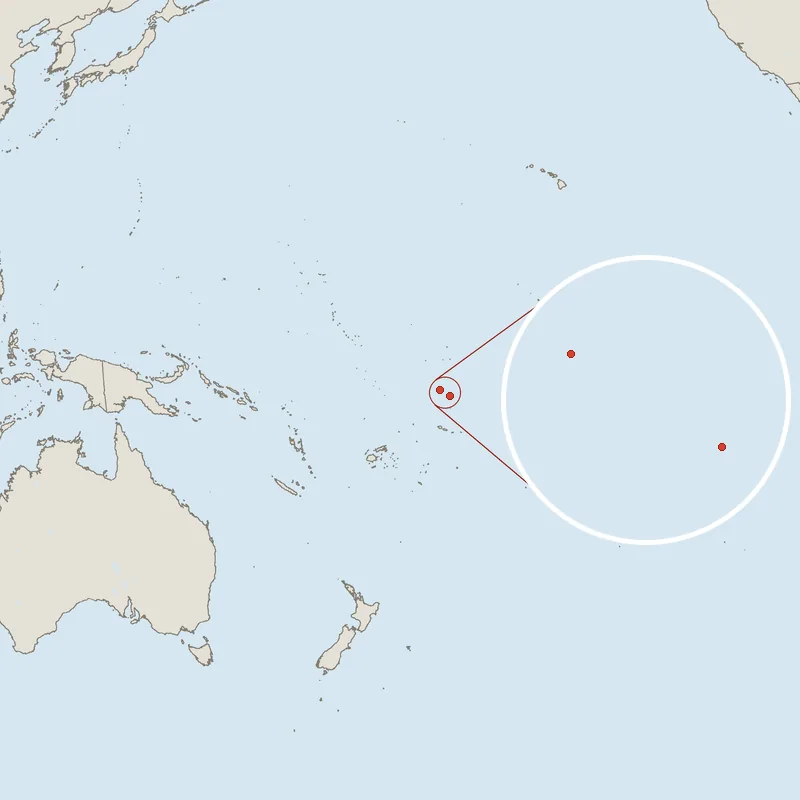
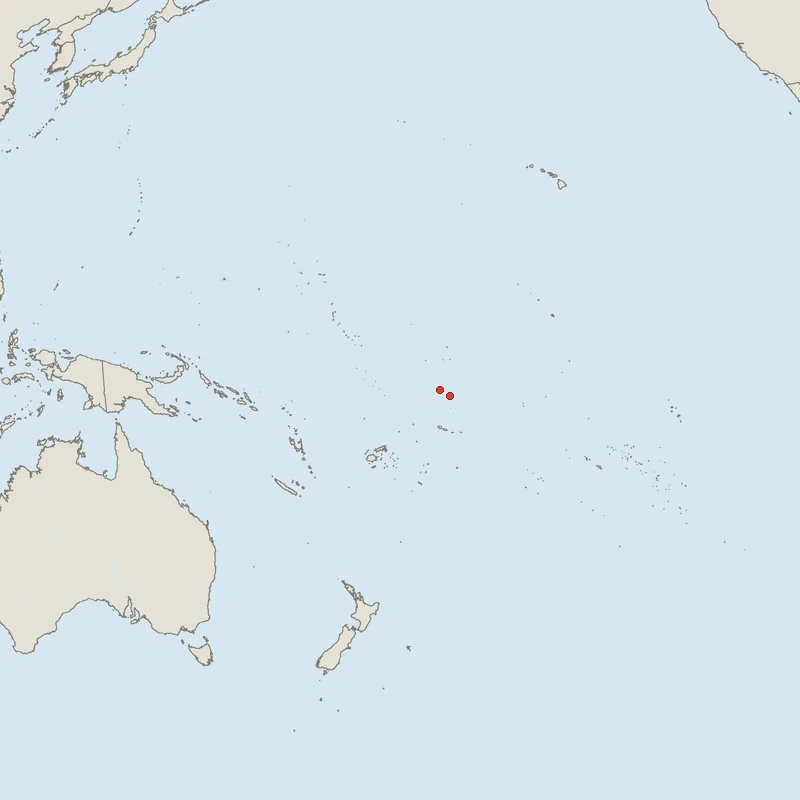
Fix archipelago maps and add recipe comments

diff --git a/app/src/main/java/com/example/myapp/recipes/RecipeScreen.kt b/app/src/main/java/com/example/myapp/recipes/RecipeScreen.kt
@@ -235,11 +235,17 @@ fun RecipeScreen(onBack: () -> Unit) {
                 pantry = pantry.map { it.courseItemName() }.distinctBy { it.itemKey() },
                 currentComments = pantry.associate { it.courseItemName().itemKey() to ingredientComment(it) },
                 onDismiss = { cooking = false },
-                onApply = { delete, comments, groceries ->
+                onApply = { delete, comments, groceries, feedback ->
                     cooking = false
+                    if (feedback.isNotBlank()) repo.comment(shown, feedback)
                     scope.launch {
-                        val undo = repo.edit(delete, comments, groceries) ?: return@launch
+                        val undo = repo.edit(delete, comments, groceries)
+                        if (undo == null) {
+                            if (feedback.isNotBlank()) AppSnackbar.show("Comment sent")
+                            return@launch
+                        }
                         val parts = listOfNotNull(
+                            "comment sent".takeIf { feedback.isNotBlank() },
                             "${delete.size} removed".takeIf { delete.isNotEmpty() },
                             "${comments.size} commented".takeIf { comments.isNotEmpty() },
                             "${groceries.size} added to Courses".takeIf { groceries.isNotEmpty() }
@@ -369,7 +375,8 @@ private fun CommentDialog(name: String, initial: String, onDismiss: () -> Unit, 
 /**
  * One row per ingredient used, the recipe's own plus any added from Ingrédients: its name or Comment
  * opens the comment it gets in parentheses there, Delete takes it out, Groceries also puts it on
- * Courses (and implies Delete unless it is kept with a comment).
+ * Courses (and implies Delete unless it is kept with a comment). The recipe comment below goes to the
+ * laptop's `/recipes` skill.
  */
 @Composable
 private fun CookedDialog(
@@ -378,8 +385,9 @@ private fun CookedDialog(
     pantry: List<String>,
     currentComments: Map<String, String>,
     onDismiss: () -> Unit,
-    onApply: (delete: List<String>, comments: Map<String, String>, groceries: List<String>) -> Unit
+    onApply: (delete: List<String>, comments: Map<String, String>, groceries: List<String>, feedback: String) -> Unit
 ) {
+    var feedback by remember { mutableStateOf("") }
     val extras = remember { mutableStateListOf<String>() }
     val delete = remember { mutableStateMapOf<String, Boolean>() }
     val comments = remember { mutableStateMapOf<String, String>() }
@@ -432,6 +440,14 @@ private fun CookedDialog(
             val addable = pantry.filter { candidate -> rows.none { it.itemKey() == candidate.itemKey() } }
             if (addable.isNotEmpty()) AddItemRow(onClick = { picking = true }, label = "Add ingredient")
         }
+        Spacer(Modifier.height(8.dp))
+        OutlinedTextField(
+            value = feedback,
+            onValueChange = { feedback = it },
+            label = { Text("Recipe comment") },
+            maxLines = 4,
+            modifier = Modifier.fillMaxWidth()
+        )
         Spacer(Modifier.height(12.dp))
         Row(Modifier.fillMaxWidth(), horizontalArrangement = Arrangement.End) {
             TextButton(onClick = onDismiss) { Text("Cancel") }
@@ -439,7 +455,8 @@ private fun CookedDialog(
                 onApply(
                     rows.filter { delete[it] == true },
                     comments.filterKeys { it in rows },
-                    rows.filter { groceries[it] == true }
+                    rows.filter { groceries[it] == true },
+                    feedback.trim()
                 )
             }) { Text("Apply") }
         }

diff --git a/app/src/main/java/com/example/myapp/recipes/RecipeRepository.kt b/app/src/main/java/com/example/myapp/recipes/RecipeRepository.kt
@@ -13,6 +13,7 @@ import com.example.myapp.notesLists
 import com.example.myapp.userMessage
 import com.example.myapp.writeAtomically
 import java.io.File
+import java.time.LocalDate
 import kotlinx.coroutines.CoroutineScope
 import kotlinx.coroutines.Dispatchers
 import kotlinx.coroutines.FlowPreview
@@ -30,6 +31,7 @@ import kotlinx.coroutines.flow.updateAndGet
 import kotlinx.coroutines.launch
 import kotlinx.coroutines.sync.Mutex
 import kotlinx.coroutines.sync.withLock
+import org.json.JSONObject
 
 /**
  * The recipe the laptop's `/recipes` skill picked (~/Documents/Code/daily-journal), and what cooking it
@@ -44,6 +46,7 @@ class RecipeRepository(context: Context) {
     private val recipeFile = File(dir, "recipe.json")
     private val doneFile = File(dir, "done.txt")
     private val sentFile = File(dir, "sent.json")
+    private val commentsDir = File(dir, "comments").apply { mkdirs() }
     private val scope = CoroutineScope(SupervisorJob() + Dispatchers.IO)
     private val uploadLock = Mutex()
     private val dao = AppDatabase.get(appContext).noteDao()
@@ -124,11 +127,36 @@ class RecipeRepository(context: Context) {
                     _recipe.value = recipe
                 }
                 snapshot(dao.getNotes())?.let { upload(it) }
+                sendComments()
             } catch (e: Exception) {
                 _error.value = userMessage(e)
             } finally {
                 _loading.value = false
             }
+        }
+    }
+
+    /**
+     * Sends what Valentin thought of [recipe] to the laptop, which the `/recipes` skill reads before
+     * proposing. Kept in `comments/` until the upload succeeds, retried on refresh.
+     */
+    fun comment(recipe: Recipe, text: String) {
+        val json = JSONObject()
+            .put("id", recipe.id)
+            .put("title", recipe.title)
+            .put("date", LocalDate.now().toString())
+            .put("comment", text.trim())
+            .toString()
+        scope.launch {
+            File(commentsDir, "cooked_${recipe.id}.json").writeAtomically(json)
+            runCatching { sendComments() }
+        }
+    }
+
+    private suspend fun sendComments() = uploadLock.withLock {
+        commentsDir.listFiles()?.sortedBy { it.name }?.forEach { file ->
+            appContext.mailRepository.putFile(FOLDER, file.name, file.readText())
+            file.delete()
         }
     }
 

diff --git a/app/src/main/java/com/example/myapp/notes/NoteEditorTopBar.kt b/app/src/main/java/com/example/myapp/notes/NoteEditorTopBar.kt
@@ -4,6 +4,7 @@ import androidx.compose.foundation.layout.Box
 import androidx.compose.foundation.layout.Row
 import androidx.compose.foundation.layout.fillMaxWidth
 import androidx.compose.foundation.layout.padding
+import androidx.compose.foundation.layout.size
 import androidx.compose.foundation.text.BasicTextField
 import androidx.compose.foundation.text.KeyboardOptions
 import androidx.compose.foundation.text.input.TextFieldLineLimits
@@ -29,6 +30,7 @@ import androidx.compose.material.icons.filled.Search
 import androidx.compose.material.icons.filled.Sync
 import androidx.compose.material.icons.filled.Title
 import androidx.compose.material.icons.filled.VerticalAlignCenter
+import androidx.compose.material3.CircularProgressIndicator
 import androidx.compose.material3.DropdownMenu
 import androidx.compose.material3.DropdownMenuItem
 import androidx.compose.material3.Icon
@@ -189,8 +191,14 @@ fun NoteEditorTopBar(
                 }
             }
             if (state.isClaudeNote) {
-                IconButton(onClick = actions.onRefreshClaudeNote, enabled = !state.claudeRefreshing) {
-                    Icon(Icons.Default.Sync, contentDescription = "Remove the solved lines")
+                if (state.claudeRefreshing) {
+                    Box(Modifier.size(48.dp), contentAlignment = Alignment.Center) {
+                        CircularProgressIndicator(Modifier.size(22.dp), strokeWidth = 2.dp)
+                    }
+                } else {
+                    IconButton(onClick = actions.onRefreshClaudeNote) {
+                        Icon(Icons.Default.Sync, contentDescription = "Remove the solved lines")
+                    }
                 }
             }
             IconButton(onClick = actions.onToggleSearch) {

diff --git a/app/src/main/java/com/example/myapp/flashcards/Repository.kt b/app/src/main/java/com/example/myapp/flashcards/Repository.kt
@@ -301,7 +301,23 @@ class FlashcardRepository(private val context: Context) {
             8 to "regionmap-02",
             8 to "regionmap-03",
             8 to "regionmap-04",
-            8 to "regionmap-06"
+            8 to "regionmap-06",
+            9 to "map-bq",
+            9 to "map-ck",
+            9 to "map-fm",
+            9 to "map-gs",
+            9 to "map-ki",
+            9 to "map-mh",
+            9 to "map-mp",
+            9 to "map-mu",
+            9 to "map-pf",
+            9 to "map-pn",
+            9 to "map-sb",
+            9 to "map-sc",
+            9 to "map-sh",
+            9 to "map-tf",
+            9 to "map-tk",
+            9 to "map-tv"
         )
         private const val BIRTHDAYS_LIST_ID = "builtin-birthdays-v1"
         private val birthdayFormat = DateTimeFormatter.ofPattern("d MMMM", Locale.FRENCH)

diff --git a/app/src/main/java/com/example/myapp/notes/NoteEditorScreen.kt b/app/src/main/java/com/example/myapp/notes/NoteEditorScreen.kt
@@ -234,8 +234,8 @@ fun NoteEditorScreen(
                                     val before = textFieldState.text.toString()
                                     val (after, removed) = withSolvedRemoved(before, solved.lines)
                                     if (removed > 0) state.saveContent(after)
-                                    claude.clearSolved(solved.files)
-                                    claude.upload(after)
+                                    claude.clearSolved(solved.files, after)
+                                    claudeRefreshing = false
                                     if (removed == 0) AppSnackbar.show("Nothing solved yet")
                                     else if (snackbarHostState.showUndoSnackbar("$removed line${plural(removed)} removed")) {
                                         state.saveContent(before)

diff --git a/app/src/main/java/com/example/myapp/notes/ClaudeNoteSync.kt b/app/src/main/java/com/example/myapp/notes/ClaudeNoteSync.kt
@@ -63,8 +63,18 @@ class ClaudeNoteSync(context: Context) {
         return Solved(lines, files.keys)
     }
 
-    suspend fun clearSolved(files: Set<String>) {
-        if (files.isNotEmpty()) appContext.mailRepository.deleteFiles(FOLDER, files)
+    /**
+     * Deletes the solved [files] from the mailbox and sends the note's new [content], in the
+     * background so the refresh reports as soon as the lines are gone. A failed delete is harmless:
+     * the next refresh finds the lines already removed.
+     */
+    fun clearSolved(files: Set<String>, content: String) {
+        scope.launch {
+            runCatching {
+                if (files.isNotEmpty()) appContext.mailRepository.deleteFiles(FOLDER, files)
+                upload(content)
+            }
+        }
     }
 
     private companion object {

diff --git a/src/generate_maps.py b/src/generate_maps.py
@@ -72,6 +72,8 @@ LENS = 280
 # The lens never spans less, so it holds a coast or a border and not a lone blob.
 LENS_MIN_KM = 220
 LENS_FILL = 0.55
+# Pieces this close to a kept one belong to the same archipelago, farther ones are other territories.
+ARCHIPELAGO_GAP_KM = 1600
 # Pixels across under which a target gets a circle around it, a Paris department the zoom inset.
 TINY_PX = 16
 PARIS_INSET_PX = 22
@@ -270,7 +272,16 @@ def target_pts(target, proj):
     origin = main_pts.mean(0)
     reach = max(800.0, 2 * np.hypot(*(main_pts - origin).T).max())
     pts = [proj.forward(ext.lonlat) for ext, _ in target]
-    return np.concatenate([p for p in pts if np.hypot(*(p.mean(0) - origin)) <= reach])
+    centers = np.array([p.mean(0) for p in pts])
+    kept = np.hypot(*(centers - origin).T) <= reach
+    # An archipelago chains on island by island, so Kiribati keeps its three groups.
+    while True:
+        gaps = np.hypot(*(centers[:, None] - centers[kept][None]).transpose(2, 0, 1)).min(1)
+        grown = kept | (gaps <= ARCHIPELAGO_GAP_KM)
+        if (grown == kept).all():
+            break
+        kept = grown
+    return np.concatenate([p for p, keep in zip(pts, kept, strict=True) if keep])
 
 
 def box_km(pts):
@@ -326,13 +337,21 @@ def draw_leaders(draw, a, ra, b, rb):
         )
 
 
-def render_lens(target, data):
+def lens_view(target):
     proj = Laea(*main_ring(target).latlon())
-    pts = target_pts(target, proj)
-    box = box_km(pts)
+    box = box_km(target_pts(target, proj))
     x0, y0, x1, y1 = box
     span = max(max(x1 - x0, y1 - y0) / LENS_FILL, LENS_MIN_KM)
-    view = View(proj, (x0 + x1) / 2, (y0 + y1) / 2, span / LENS, LENS, LENS)
+    return View(proj, (x0 + x1) / 2, (y0 + y1) / 2, span / LENS, LENS, LENS), box
+
+
+def lens_shows_shape(target, view):
+    """False for an atoll chain, which the lens would only draw as the same dots spread apart."""
+    shown = [view.px(ext) / SUPERSAMPLE for ext, _ in target if view.shows(ext)]
+    return len(shown) == 1 or any((pts.max(0) - pts.min(0)).max() >= 6 for pts in shown)
+
+
+def render_lens(target, data, view, box):
     img = draw_map(view, target, data["world"], data["lakes"]).resize((LENS, LENS), Image.LANCZOS)
     dot_specks(img, view, target)
     ring_circle(img, view, box)
@@ -377,7 +396,8 @@ def render_country(target, data):
     img = big.resize((W, H), Image.LANCZOS)
     x0, y0, x1, y1 = box_px(view, target_pts(target, view.proj))
     size = max(x1 - x0, y1 - y0)
-    if size >= READS_PX:
+    lens, lens_box = lens_view(target)
+    if size >= READS_PX or not lens_shows_shape(target, lens):
         dot_specks(img, view, target)
         return img
 
@@ -405,7 +425,7 @@ def render_country(target, data):
         (left - edge, top - edge, left + LENS + edge, top + LENS + edge),
         disc_mask(LENS + 2 * edge),
     )
-    img.paste(render_lens(target, data), (left, top), disc_mask(LENS))
+    img.paste(render_lens(target, data, lens, lens_box), (left, top), disc_mask(LENS))
     return img
 
 

diff --git a/CLAUDE.md b/CLAUDE.md
@@ -203,10 +203,10 @@ Root package (shared/misc):
 
 `recipes/` (the recipe the laptop's `/recipes` skill picked from the Ingrédients note, `~/Documents/Code/daily-journal`):
 - `RecipeModels.kt`: the recipe shape and the notes snapshot, mirroring that repo's `recipe.py`
-- `RecipeRepository.kt`: the singleton, created at app start; uploads the Ingrédients and Modèle courses snapshot to the Journal folder a few seconds after either changes, fetches the latest recipe on refresh (only one kept), the ticked steps, and the undoable edits to Ingrédients and Courses
+- `RecipeRepository.kt`: the singleton, created at app start; uploads the Ingrédients and Modèle courses snapshot to the Journal folder a few seconds after either changes, fetches the latest recipe on refresh (only one kept), the ticked steps, the undoable edits to Ingrédients and Courses, and the recipe comments sent as `cooked_<id>.json` (kept in `filesDir/recipes/comments` until uploaded, retried on refresh)
 - `RecipeNotes.kt`: the pure text side of those edits, on top of `notes/IngredientSync.kt`
 - `RecipeTimers.kt`: the cooking timers (`repo.timers`), each an exact alarm plus a countdown notification replaced by an insistent alarm stream one at the end, kept in `filesDir/recipes/timers.json`, RecipeTimerReceiver (end, Stop, reboot), and `stepDurations`, the durations a step's text names
-- `RecipeScreen.kt`: one scroll (ingredients with the missing ones marked live, Add missing to Courses, steps to tick with a timer chip per duration, screen kept on), the header timer button and the timer rows pinned under it, and the Cooked dialog (Comment, Delete and Groceries per ingredient, the comment in parentheses made of several preset choices and free text, Groceries implying Delete unless commented, more ingredients added from Ingrédients)
+- `RecipeScreen.kt`: one scroll (ingredients with the missing ones marked live, Add missing to Courses, steps to tick with a timer chip per duration, screen kept on), the header timer button and the timer rows pinned under it, and the Cooked dialog (Comment, Delete and Groceries per ingredient, the comment in parentheses made of several preset choices and free text, Groceries implying Delete unless commented, more ingredients added from Ingrédients, and the recipe comment sent to `/recipes`)
 
 `news/` (news reader, French and world headlines from RSS):
 - `NewsModels.kt`: NewsArticle, the NewsRead/NewsSaved/NewsProgress Room entities and NewsDao, plus the 7 day retention shared by the read marks and the reading positions
